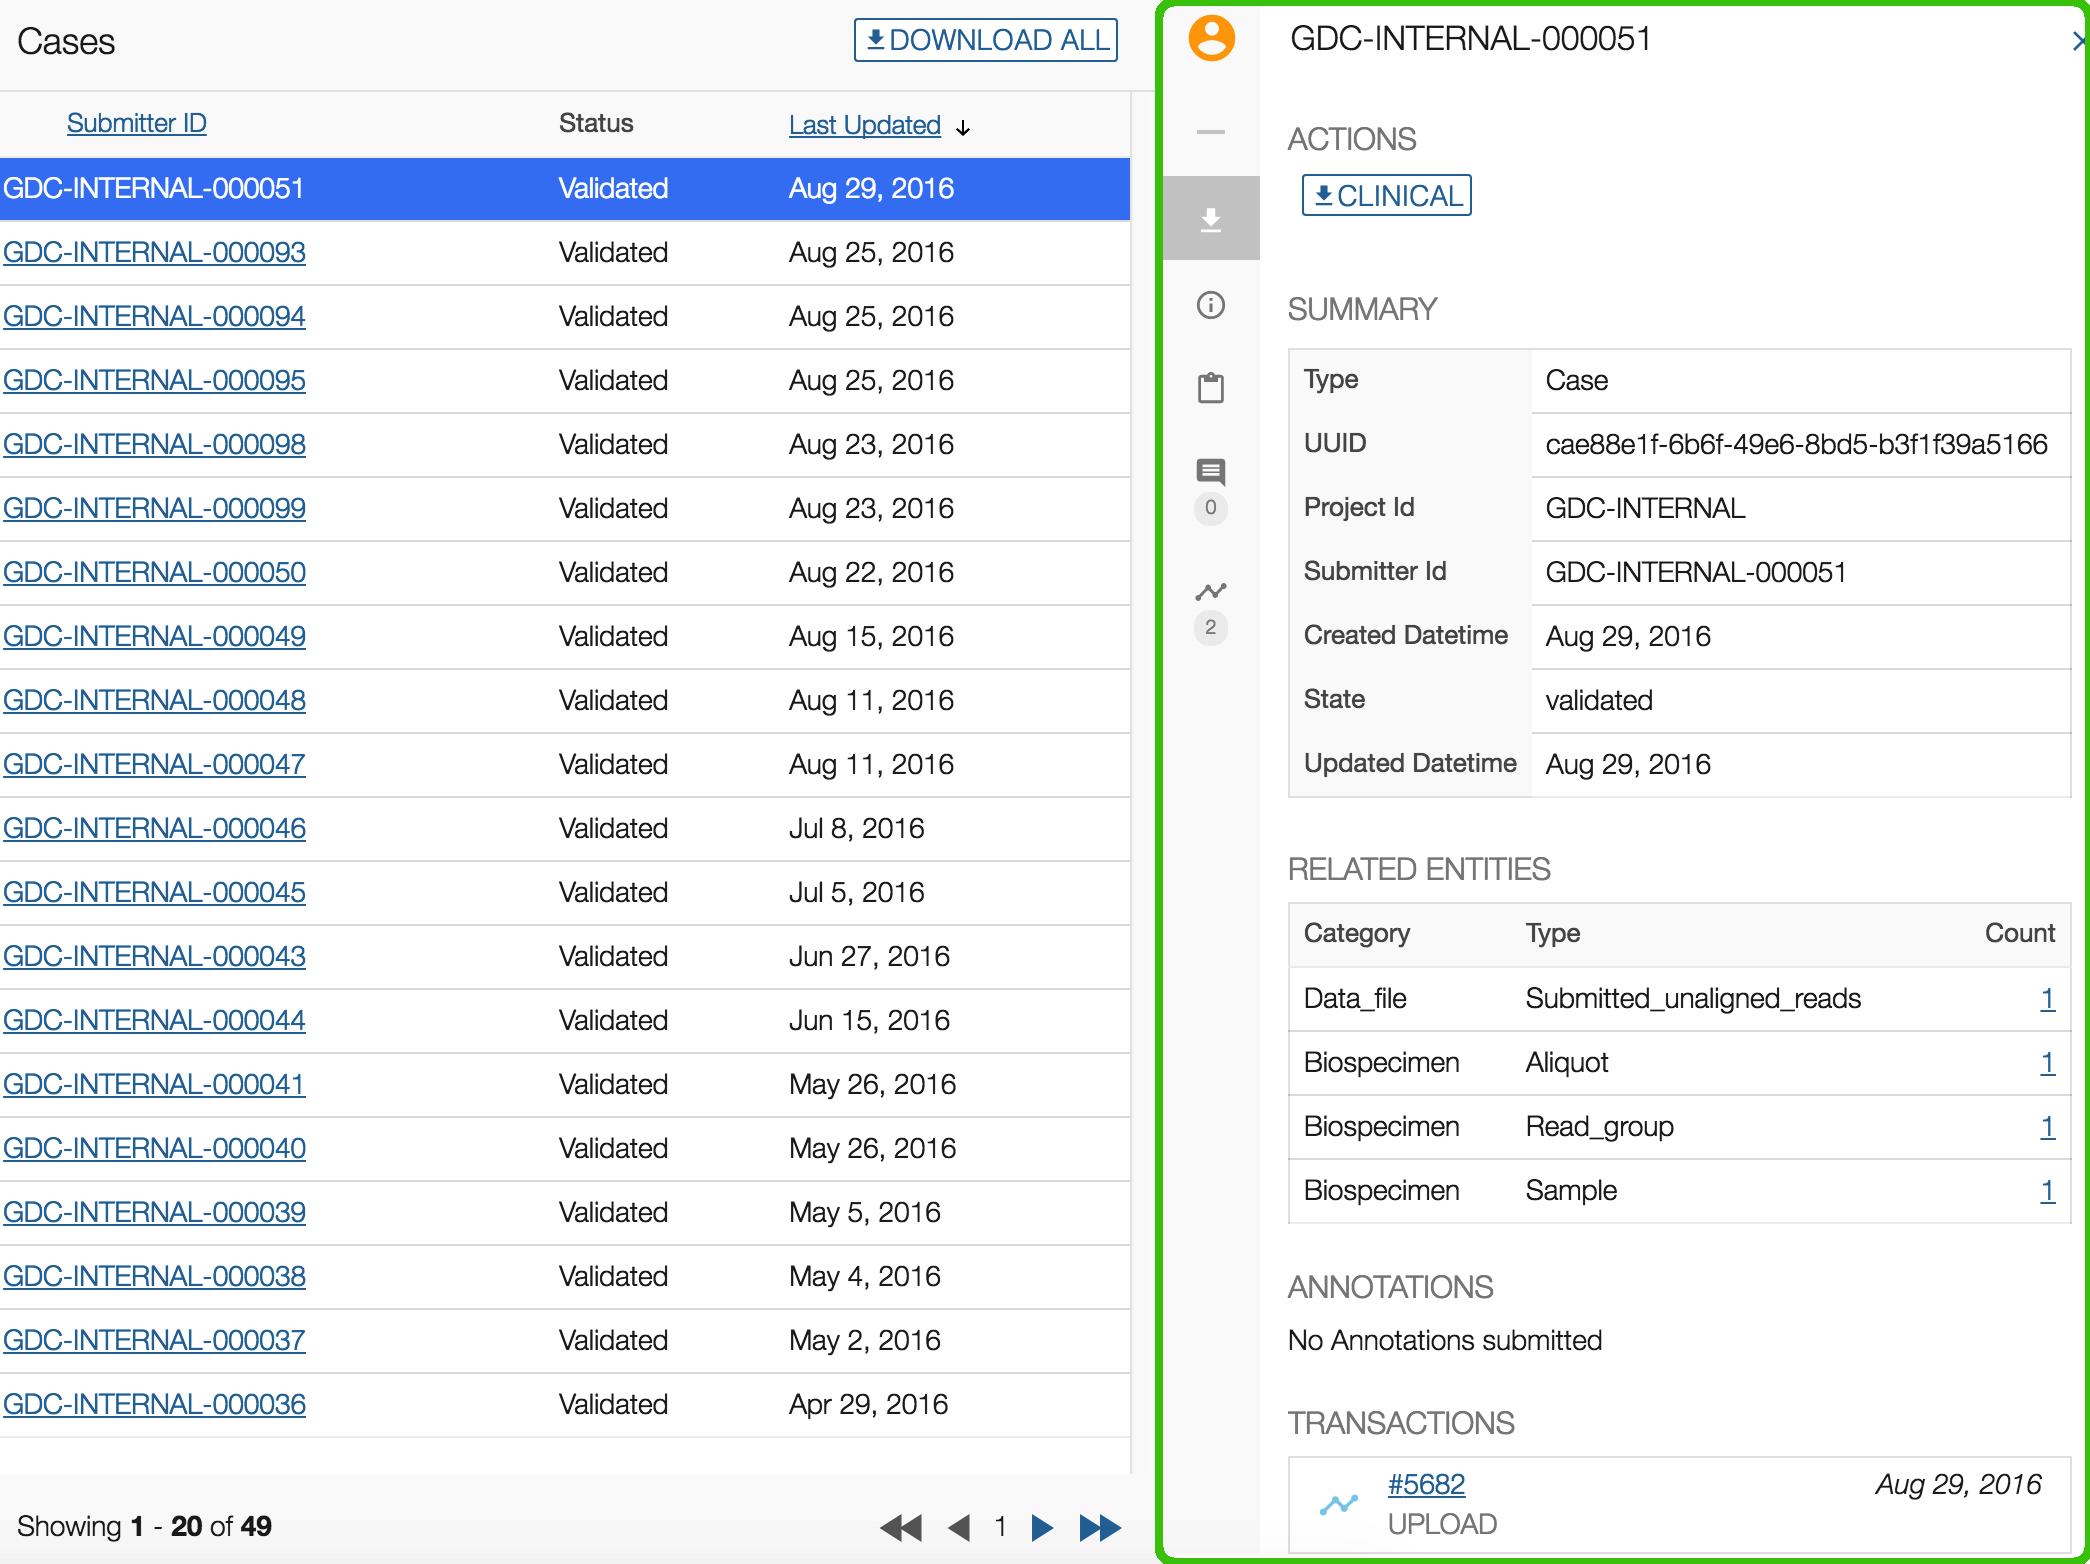
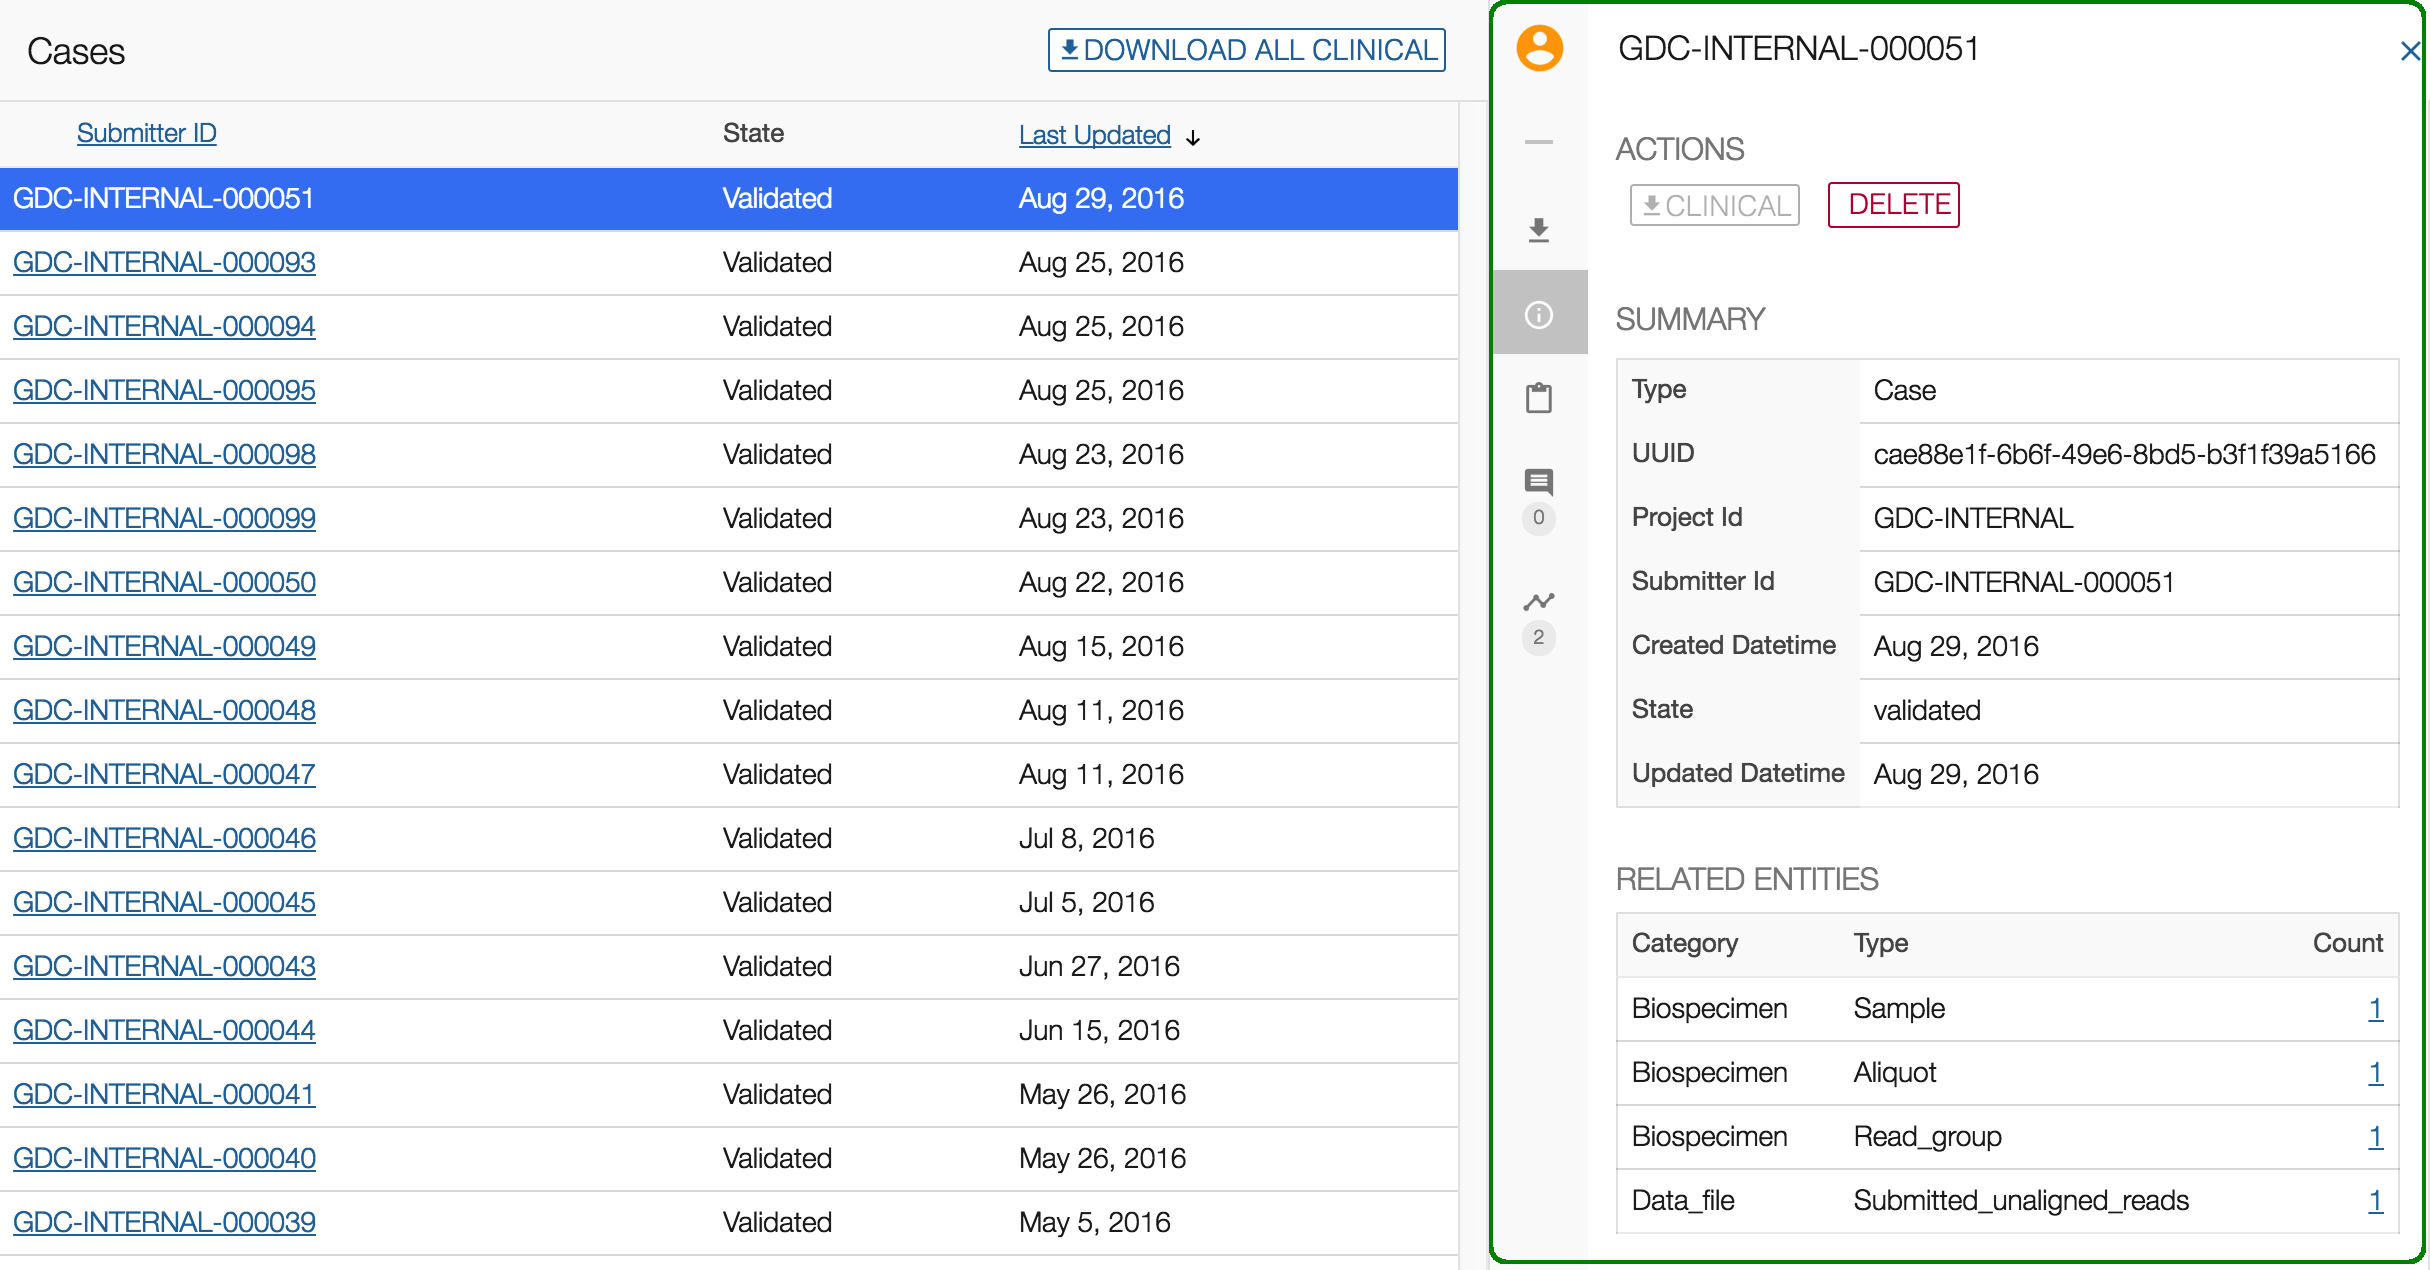
Changes to Upload, Homepage, and Browse Data for deletion and reports functions

Changed region(s): [[0.0, 0.0, 1.0, 1.0], [0.2799, 0.952, 0.3421, 0.9827], [0.7464, 0.215, 0.7775, 0.2457]]

diff --git a/docs/Data_Submission_Portal/Users_Guide/Data_Upload_UG.md b/docs/Data_Submission_Portal/Users_Guide/Data_Upload_UG.md
@@ -554,9 +554,57 @@ Submitting an [__Experiment Metadata__](https://gdc-docs.nci.nih.gov/Data_Dictio
 type	submitter_id	cases.submitter_id	data_category	data_format	data_type	file_name	file_size	md5sum
 experiment_metadata	Blood-00001-aliquot_lane1_barcodeACGTAC_55-EXPERIMENT-1	Blood-00001-aliquot_lane1_barcodeACGTAC_55	Sequencing Data	SRA XML	Experiment Metadata	Experimental-data.xml	65498	d79997e4de03b5a0311f0f2fe608c11d
 ```
+## Deleting Submitted Entities
+
+The GDC Data Submission Portal allows users to delete submitted entities from the project when the project is in an "OPEN" state. This section applies to entities that have been committed to the project. Entities that have not been committed can be removed from the project by choosing the `DISCARD` button.  Entities can also be deleted using the API. See the [API Submission Documentation](../../API/Users_Guide/Submission/#deleting-entities) for specific instructions.
+
+### Simple Deletion
+
+If an entity was uploaded and has no related entities, it can be deleted from the [Browse](Browse_Data.md) tab. Once the entity to be deleted is selected, choose the `DELETE` button in the right panel under "ACTIONS".
+
+---
+
+[![GDC Delete Unassociated Case](images/GDC-Delete-Case-Unassociated.png)](images/GDC-Delete-Case-Unassociated.png "Click to see the full image.")
+
+---
+
+A message will then appear asking if you are sure about deleting the entity.  Choosing the `YES, DELETE` button will remove the entity from the project, whereas choosing the `NO, CANCEL` button will return the user to the previous screen.  
+
+---
+
+[![GDC Yes or No](images/GDC-Delete-Sure.png)](images/GDC-Delete-Sure.png "Click to see the full image.")
+
+---
+
+### Deletion with Dependents
+
+If an entity has related entities, such as a `case` with multiple `samples` and `aliquots`, deletion takes one extra step.  
+
+---
+
+[![GDC Delete Associated Case](images/GDC-Delete-Case-Associated.png)](images/GDC-Delete-Case-Associated.png "Click to see the full image.")
+
+---
+
+Follow the 'Simple Deletion' method until the end. This action will appear in the [Transactions](Transactions.md) tab as "Delete" with a "FAILED" state.  
+
+---
+
+[![GDC Delete Failed](images/GDC-Failed-Transaction.png)](images/GDC-Failed-Transaction.png "Click to see the full image.")
+
+---
+
+Choose the failed transaction and the right panel will show the list of entities related to the entity that was going to be deleted.  
+
+---
+
+[![GDC Error Related](images/GDC-Error-Related.png)](images/GDC-Error-Related.png "Click to see the full image.")
+
+---
+
+Selecting the `DELETE ALL` button at the bottom of the list will delete all of the related entities, their descendants, and the original entity.
 
 ## Strategies for Submitting in Bulk
-
 
 Each submission in the previous sections was broken down by component to demonstrate the GDC Data Model structure. However, the submission of multiple entities at once is supported and encouraged. Here two strategies for submitting data in an efficient manner are discussed.   
 
@@ -666,7 +714,3 @@ The [transaction](Transactions.md) page lists all previous transactions in the p
 __Note:__ When submittable data files are uploaded through the Data Transfer Tool they are not displayed as transactions.  
 
 [![Transaction Original Files](images/GDC_Submission_Transactions_Original_Files_2.png)](images/GDC_Submission_Transactions_Original_Files_2.png "Click to see the full image.")
-
-## Deleting Previously Uploaded Files
-
-The GDC Data Submission Portal does not support the deletion of entities at this time. This can be performed using the API. See the [API Submission Documentation](../../API/Users_Guide/Submission/#deleting-entities) for specific instructions.

diff --git a/docs/Data_Submission_Portal/Users_Guide/Homepage.md b/docs/Data_Submission_Portal/Users_Guide/Homepage.md
@@ -4,11 +4,17 @@
 
 After [authentication](Authentication.md), users are redirected to a homepage. The homepage acts as the entry point for GDC data submission and provides submitters with access to a list of authorized projects, reports, and transactions.
 
-[![GDC Submitter Landing Page](images/GDC_Submission_Landing_Submitter_2.png)](images/GDC_Submission_Landing_Submitter_2.png "Click to see the full image.")
+[![GDC Submitter Home Page](images/GDC-HomePage-Submit.png)](images/GDC-HomePage-Submit.png "Click to see the full image.")
 
 Content on the homepage varies based on the user profile (e.g. submitter, program office).
 
 ## Reports
+
+Project Summary Reports can be downloaded at the Submission Portal Homepage at three different levels: CASE OVERVIEW, ALIQUOT OVERVIEW, and DATA VALIDATION.  Each report is generated in tab-delimited format in which each row represents an active project.  
+
+* __CASE OVERVIEW:__ This report describes the number of cases with associated biospecimen data, clinical data, or submittable data files (broken down by type) for each project.
+* __ALIQUOT OVERVIEW:__ This report describes the number of aliquots in a project with associated data files. Aliquot numbers are broken down by tissue sample type.
+* __DATA VALIDATION:__ This report categorizes all submittable data files associated with a project by their file status.
 
 ## Projects
 

diff --git a/docs/Data_Submission_Portal/Users_Guide/Browse_Data.md b/docs/Data_Submission_Portal/Users_Guide/Browse_Data.md
@@ -40,7 +40,7 @@ On the top-right section of the screen, the user can download data about all ent
 
 Clicking on an entity will open the details panel. Data in this panel is broken down into multiple sections depending on the entity type. The main sections are:
 
-* __Actions__: Actions that can be performed relating the entity. This includes downloading the metadata (JSON or TSV) or submittable data file pertaining to the entity.  
+* __Actions__: Actions that can be performed relating the entity. This includes downloading the metadata (JSON or TSV) or submittable data file pertaining to the entity and deleting the entity. See the [Deleting Entities](https://gdc-docs.nci.nih.gov/Data_Submission_Portal/Users_Guide/Data_Upload_UG/#deleting-submitted-entities) guide for more information.  
 * __Summary__: A list of IDs and system properties associated with the entity.
 * __Details__: Properties of the entity (not associated with cases).
 * __Hierarchy__ or __Related Entities__: A list of associated entities.
